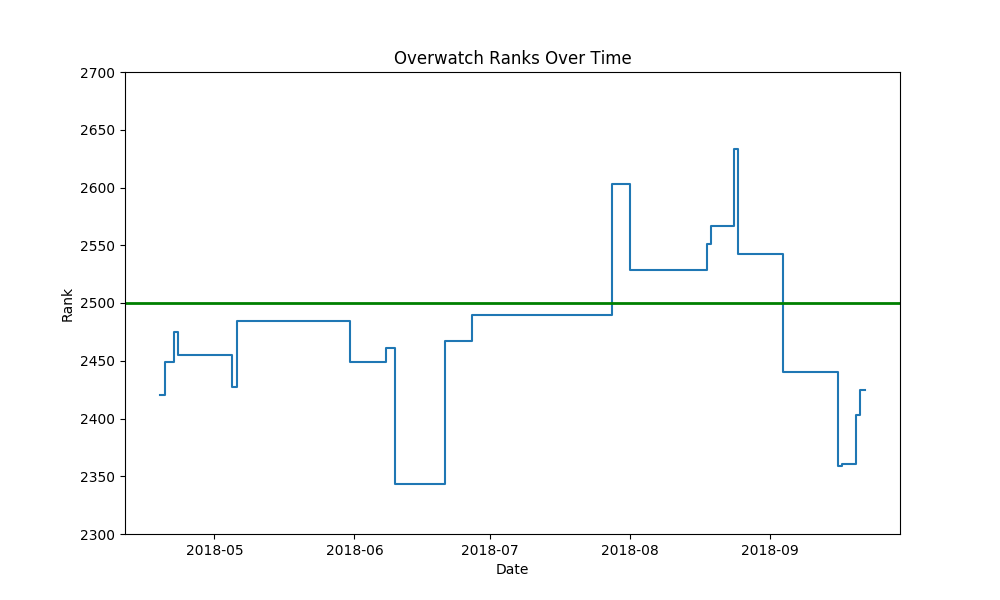
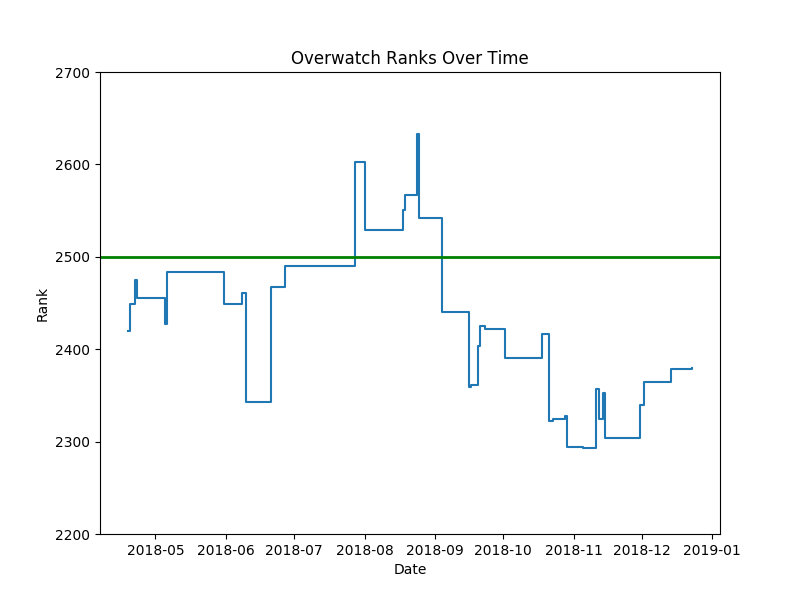
Updating logs

diff --git a/plot_ow_ranks.py b/plot_ow_ranks.py
@@ -11,7 +11,7 @@ with open("ow_ranks.txt", "r") as rank_fil:
 dates = np.array(dates)
 ranks = np.array(ranks)
 good_values = ranks != 0
-fig = plt.figure(figsize=(10, 6))
+fig = plt.figure(figsize=(8, 6))
 ax = fig.gca()
 ax.plot_date(dates[good_values], ranks[good_values],"-", tz=None,
              xdate=True, ydate=False, drawstyle="steps-post")
@@ -20,5 +20,5 @@ ax.set_xlabel("Date")
 ax.set_ylabel("Rank")
 ax.axhline(2000, c="gold", linewidth=0.5)
 ax.axhline(2500, c="green", linewidth=2)
-ax.set_ylim(2300, 2700)
+ax.set_ylim(2200, 2700)
 fig.savefig("ranks.png")
